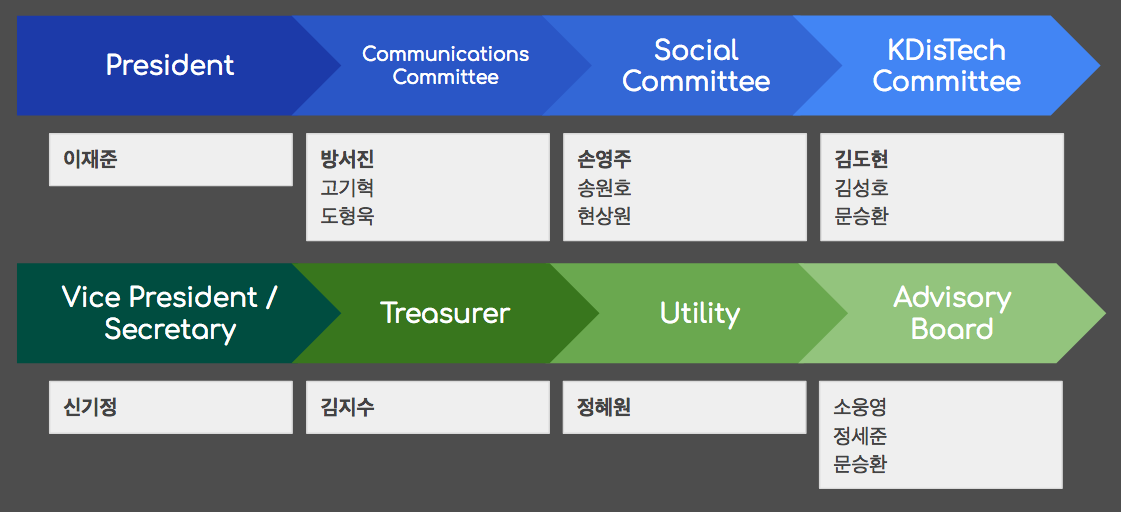
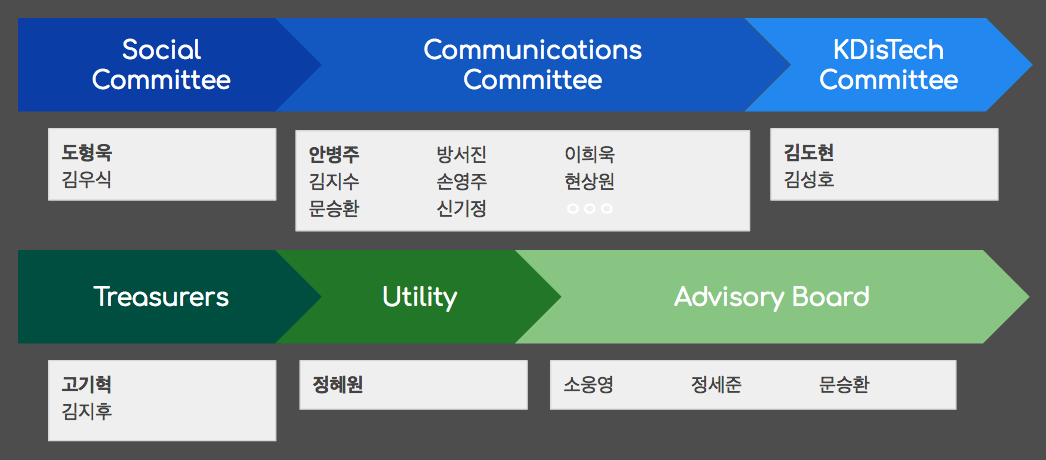
eboard change & gitignore

diff --git a/about.html b/about.html
@@ -172,6 +172,19 @@
             <div class="row">
                 <div class="col-lg-12">
                     <ul class="timeline">
+                        <li class="timeline-inverted">
+                            <div class="timeline-image">
+                                <img class="rounded-circle img-fluid" src="img/about/2018.png" alt="2018">
+                            </div>
+                            <div class="timeline-panel">
+                                <div class="timeline-heading">
+                                    <h3>2018</h3>
+                                </div>
+                                <div class="timeline-body">
+                                    <h5><font class="text-primary" size="+1">01 </font> 4대 E-board 구성</h5>
+                                </div>
+                            </div>
+                        </li>
                         <li>
                             <div class="timeline-image">
                                 <img class="rounded-circle img-fluid" src="img/about/2017.png" alt="2017">
@@ -274,7 +287,7 @@
         <div class="container">
             <div class="row">
                 <div class="col-md-4">
-                    <span class="copyright">Copyright &copy; CMU KGSA 2017</span>
+                    <span class="copyright">Copyright &copy; CMU KGSA 2018</span>
                 </div>
                 <div class="col-md-4">
                     <ul class="list-inline social-buttons">

diff --git a/career.html b/career.html
@@ -144,7 +144,7 @@
         <div class="container">
             <div class="row">
                 <div class="col-md-4">
-                    <span class="copyright">Copyright &copy; CMU KGSA 2017</span>
+                    <span class="copyright">Copyright &copy; CMU KGSA 2018</span>
                 </div>
                 <div class="col-md-4">
                     <ul class="list-inline social-buttons">

diff --git a/index.html b/index.html
@@ -126,7 +126,7 @@
         <div class="container">
             <div class="row">
                 <div class="col-sm-4">
-                    <span class="copyright">Copyright &copy; CMU KGSA 2017</span>
+                    <span class="copyright">Copyright &copy; CMU KGSA 2018</span>
                 </div>
                 <div class="col-sm-4">
                     <ul class="list-inline social-buttons">

diff --git a/life.html b/life.html
@@ -924,7 +924,7 @@
         <div class="container">
             <div class="row">
                 <div class="col-md-4">
-                    <span class="copyright">Copyright &copy; CMU KGSA 2017</span>
+                    <span class="copyright">Copyright &copy; CMU KGSA 2018</span>
                 </div>
                 <div class="col-md-4">
                     <ul class="list-inline social-buttons">
